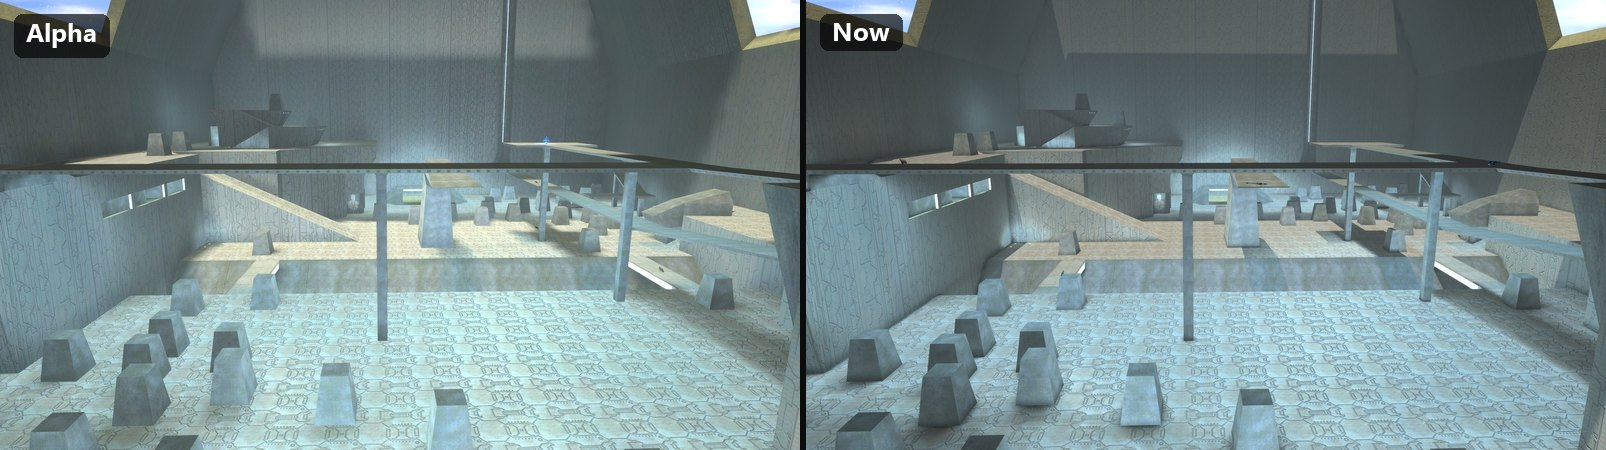
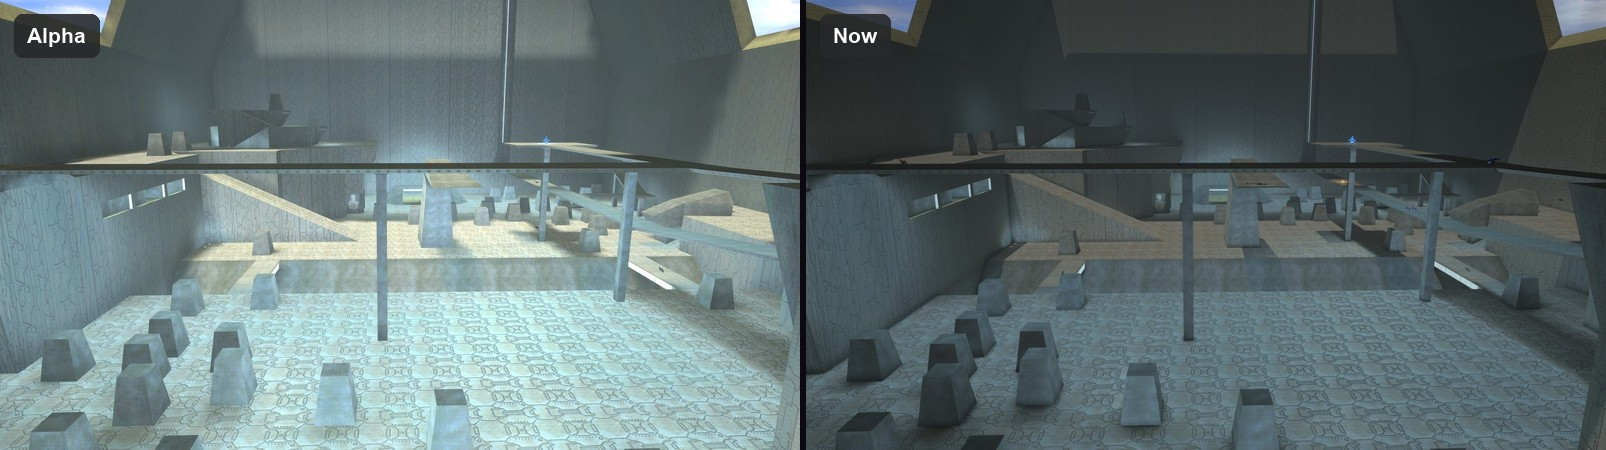
Blog: lighting the classics, updated for the 1.4.0 maps
A new first section for fog, MCC's transparent shaders, the 1/0.6
brightness fix, the sky around the camera and headlights on cliffs turned
from the sun, with 1.3.0/1.4.0 comparisons (Gephyrophobia, Chill Out,
Damnation, Rat Race's teleporter, Death Island). The hero and every
alpha-vs-now pair are retaken from the 1.4.0 finals, plus Infinity and
Sidewinder; Still rough and Getting it point at 1.4.0 / 1.5.0 / 0.19.0.

diff --git a/blog/2026-10-07-lighting-the-classics.md b/blog/2026-10-07-lighting-the-classics.md
@@ -1,15 +1,17 @@
 # Lighting the classics: teaching Unreal Engine to light Halo CE's maps
 
 **Author:** MJOLNIR Core
-**Summary:** The nineteen classic maps are lit by Unreal Engine while still looking like Halo CE, and since 1.3.0 their lightmaps are baked by our own solver at up to eight times Halo CE's resolution. Crisp shadows, lit bases, headlights on the road. Here is how we got there.
+**Summary:** The nineteen classic maps are lit by Unreal Engine while still looking like Halo CE. Their lightmaps are baked by our own solver at up to eight times Halo CE's resolution, and since 1.4.0 they have Halo CE's fog, MCC's teleporter and light shaders, and the right brightness. Here is how we got there.
 **Tags:** multiplayer, maps, lighting
 
 ![Blood Gulch, lit by Unreal Engine with Halo CE's colours](/blog-images/lighting-the-classics/blood-gulch.jpg)
 
-*Updated 2026-10-08 for classic maps 1.3.0, CE runtime 1.4.0 and mods
-0.18.0. The maps' lightmaps are now computed by a baker of our own instead of
-being read out of Halo CE's. That is the first section below; the rest of the
-post is the 1.2.0 story it builds on.*
+*Updated 2026-10-09 for classic maps 1.4.0, CE runtime 1.5.0 and mods
+0.19.0: fog, MCC's transparent shaders, a sky that sits where Halo CE puts
+it, and maps that are no longer drawn too bright. Every screenshot and every
+comparison with the alpha is retaken on the 1.4.0 maps. The 1.4.0 changes
+come first below, then the 1.3.0 solver, then the 1.2.0 story they build
+on.*
 
 When the classic maps came to Halo Campaign Evolved
 [in the alpha](/blog/classic-multiplayer-alpha), they looked like Halo CE
@@ -21,15 +23,100 @@ ground. Switch on a Warthog's headlights and the road stayed dark, while every
 player and vehicle in the beam turned glowing white.
 
 The 1.2.0 maps changed that: they keep Halo CE's colours and its soft shade,
-but the light on them comes from Unreal Engine. The 1.3.0 maps go one step
-further and replace Bungie's lightmaps with ones we bake ourselves. Here's the
-difference between the alpha and now, from the same spots:
+but the light on them comes from Unreal Engine. The 1.3.0 maps went one step
+further and replaced Bungie's lightmaps with ones we bake ourselves, and the
+1.4.0 maps add the fog and the effect shaders the PC version never had.
+Here's the difference between the alpha and now, from the same spots:
 
 ![Timberland, alpha and now](/blog-images/lighting-the-classics/timberland-alpha-vs-now.jpg)
 
 ![Battle Creek, alpha and now](/blog-images/lighting-the-classics/battle-creek-alpha-vs-now.jpg)
 
 ![Death Island, alpha and now](/blog-images/lighting-the-classics/death-island-alpha-vs-now.jpg)
+
+## 1.4.0: fog, MCC's shaders and the right brightness
+
+### Everything was 1.7 times too bright
+
+Death Island's bases came out white, while MCC draws them grey. The cause
+went back to before the classic maps had worlds of their own. Back then they
+loaded into a campaign level's world, and that world applies a colour
+correction that darkens every frame to 0.6 of its value. Our materials
+divided by 0.6 to undo it. Since September each map loads into its own
+world, which applies no such correction, but the division stayed. So every
+Halo CE surface on every map was drawn 1/0.6, or about 1.7, times too bright.
+The materials no longer divide, and a lightmap texel of 0.91 now shows as
+0.91.
+
+![A Death Island base wall, 1.3.0 and 1.4.0](/blog-images/lighting-the-classics/death-island-base-wall.jpg)
+
+The difference holds outdoors too. The maps keep their colour and their
+shade, but they are no longer washed out:
+
+![Death Island, 1.3.0 and 1.4.0](/blog-images/lighting-the-classics/death-island-1.4.0.jpg)
+
+### Fog
+
+Five of the classic maps have a fog plane: Damnation's shaft,
+Gephyrophobia's chasm, and the water on Battle Creek, Chill Out and Death
+Island. Anything under the plane fades into the fog's colour, more the
+deeper it is and the further away. Our converter never carried those planes
+over, so Gephyrophobia's chasm was a black pit, and you couldn't tell how far
+down it went.
+
+The converter now reads each plane and its fog from the map, and the
+materials draw it the way MCC's environment shaders do. They follow the same
+recipe: how deep under the plane a surface is and how far it is from the eye,
+each against the fog's opaque depth and distance, mixed by how deep the eye
+itself is.
+
+![Gephyrophobia's chasm, 1.3.0 and 1.4.0](/blog-images/lighting-the-classics/gephyrophobia-fog.jpg)
+
+![Chill Out's pool, 1.3.0 and 1.4.0](/blog-images/lighting-the-classics/chill-out-fog.jpg)
+
+One attempt cut the fog off at the outline of its plane. That drew a
+hard-edged slab across Chill Out's lower floor, while MCC fogs the whole
+floor, because Halo CE fogs every part of the level the fog's region touches.
+The maps now fog everything under the plane's height, which matches MCC on
+all five.
+
+### MCC's teleporters and light volumes
+
+Halo CE on the Xbox had a flexible shader for effects like teleporter fields,
+power-ups and beams of light. The 2003 PC version drew all of them with a
+simpler stand-in, and those stand-ins are all a classic map file carries.
+Rat Race's teleporter was a soft green blob tiled from two dust textures.
+MCC's Halo CE editing kit ships the original shaders at the same paths, so the
+converter now draws those instead, with a port of MCC's own shader code.
+
+![Rat Race's teleporter, 1.3.0 and 1.4.0](/blog-images/lighting-the-classics/rat-race-teleporter.jpg)
+
+Fifteen shaders now draw MCC's originals, among them the teleporter fields,
+beacons and Damnation's light volumes. A few change with the live object,
+like Gephyrophobia's field generator shield, and those keep the PC version:
+without the object's state they drew white or red where MCC draws purple.
+
+![Damnation, 1.3.0 and 1.4.0](/blog-images/lighting-the-classics/damnation-shaft.jpg)
+
+Damnation's light volumes also used to strobe. They flicker on purpose, but
+we picked a new random brightness thirty times per flicker, which at their
+0.6-second period meant 50 changes a second. They now drift smoothly.
+
+### The sky, and cliffs in the dark
+
+Halo CE draws the sky around the camera, wherever it is. Ours was a fixed
+mesh centred on the middle of the level's bounding box. On Gephyrophobia that
+put it 525 metres under the bridge, so the Halo ring rose from the wrong
+place. The sky now moves with the camera. The ring also tore where two of its
+strips met. Every texture we copied from MCC's tags, and every reflection
+cube map, was being read three texels out of place, because the file writer
+added 12 bytes of padding after the header.
+
+Last, a fix for headlights. On the solver-lit maps, a face turned away from
+the sun got no Unreal-lit colour at all, so headlights, muzzle flashes and
+explosions stopped at a hard line where a cliff turned from the sun. Both
+sides now get a share of it. Sunlit faces are unchanged, and Unreal's sun
+still adds nothing to the far side.
 
 ## Baking the light ourselves
 
@@ -274,18 +361,24 @@ findings above started as a number that was too high.
 
 ![Blood Gulch, alpha and now](/blog-images/lighting-the-classics/blood-gulch-alpha-vs-now.jpg)
 
+![Infinity, alpha and now](/blog-images/lighting-the-classics/infinity-alpha-vs-now.jpg)
+
+![Sidewinder, alpha and now](/blog-images/lighting-the-classics/sidewinder-alpha-vs-now.jpg)
+
 ## Still rough
 
 - Death Island's base interiors are a little darker than Halo CE's.
-- The 1.3.0 map packs are larger: lightmaps at eight times the resolution
-  cost a few megabytes per map, and more video memory.
+- Players, vehicles and weapons are not fogged yet, only the level.
+- The map packs are larger since 1.3.0: lightmaps at eight times the
+  resolution cost a few megabytes per map, and more video memory.
 - Players standing in deep shade can still look a little brighter than Halo CE
   would draw them, because Unreal's sky light reaches them there.
 
 ## Getting it
 
 Open the launcher and, on the **Multiplayer** page, press **Install
-multiplayer** again. It fetches the 1.3.0 maps, the 1.4.0 runtime they need and
-the 0.18.0 mods. Everyone in your fireteam needs the update, so the maps
-match. Then go stand on a Blood Gulch base roof at noon, or walk into a
-Death Island base.
+multiplayer** again. It fetches the 1.4.0 maps, the 1.5.0 runtime they need and
+the 0.19.0 mods, which also bring Halo CE's vehicle sets per game type and
+the playtest fixes (see the [0.19.0 changelog](/changelog/mods/0.19.0)).
+Everyone in your fireteam needs the update, so the maps match. Then go look
+down Gephyrophobia's chasm, or step through a Rat Race teleporter.
